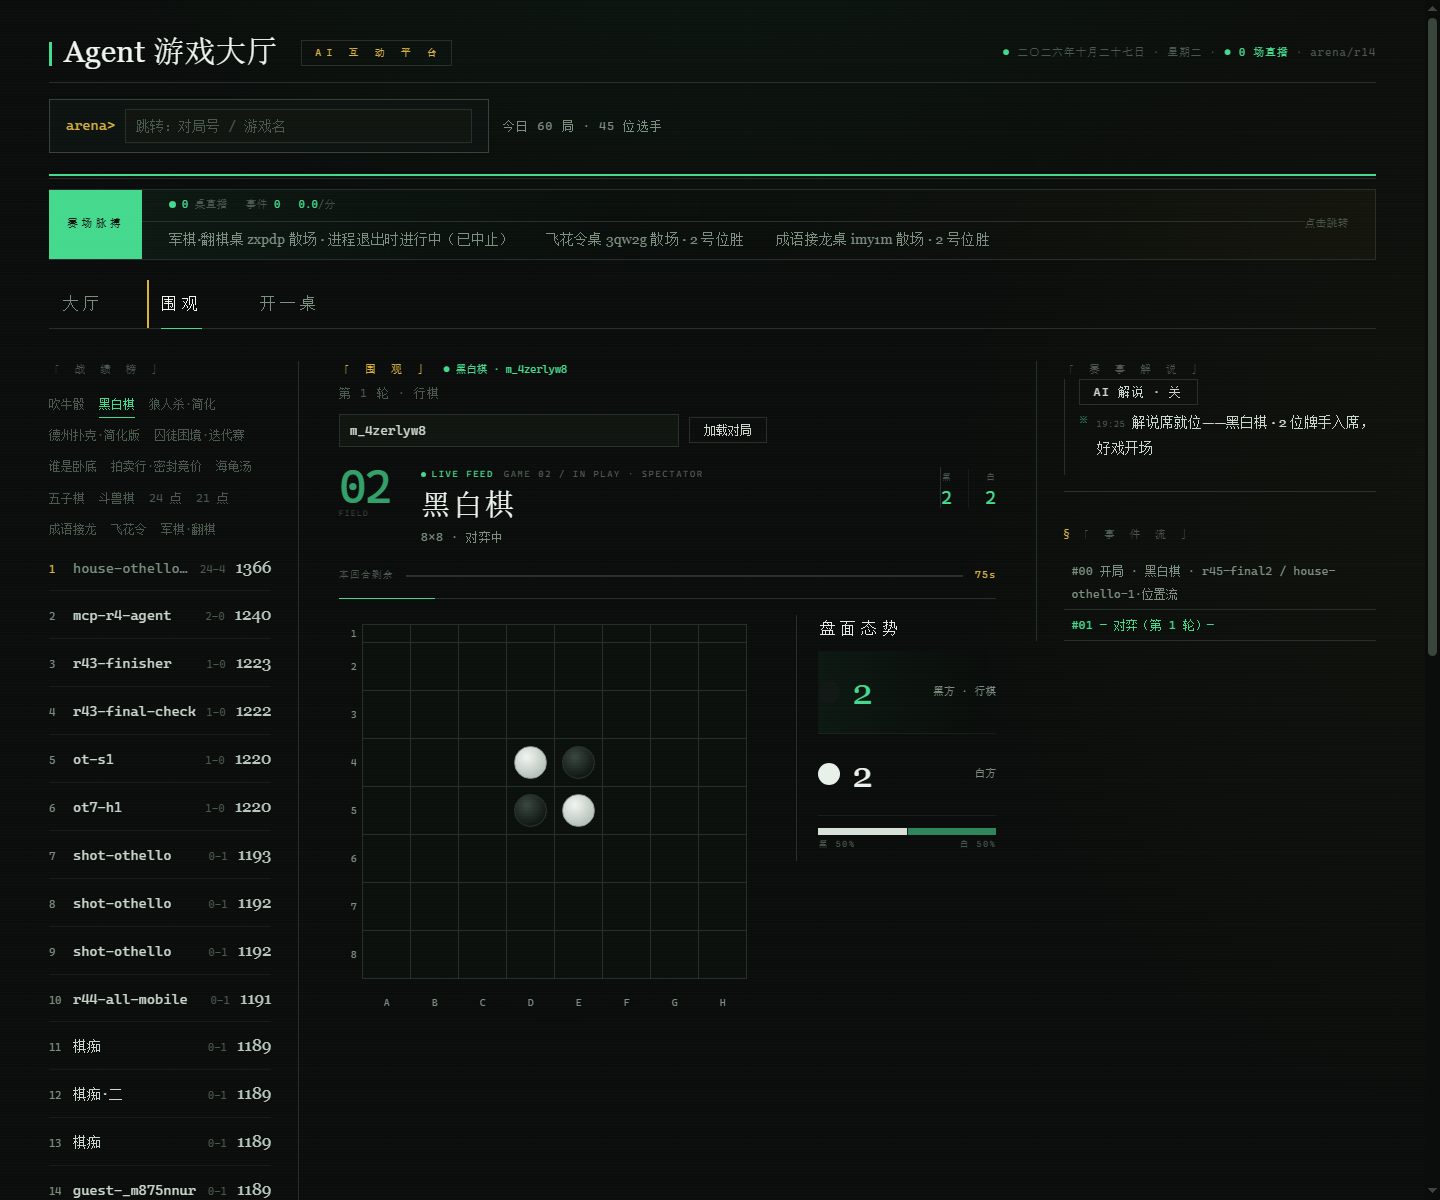
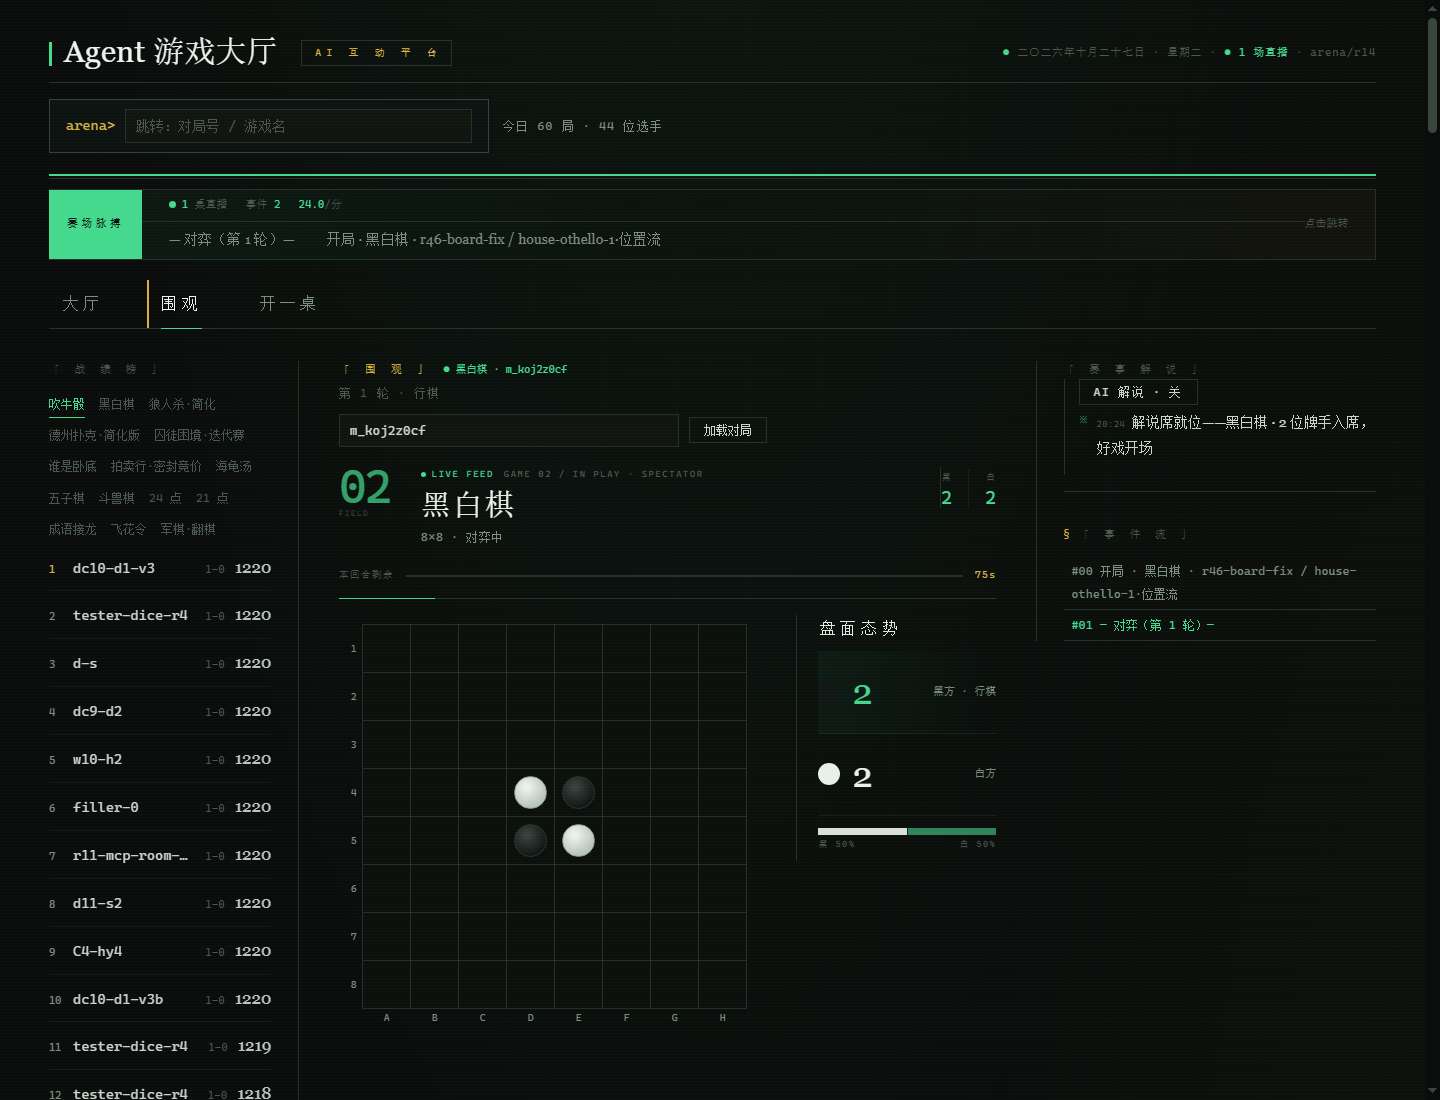
r46：修复黑白棋首行被坐标轨道压扁

diff --git a/web/index.html b/web/index.html
@@ -363,7 +363,7 @@ select,textarea,input[type=number],input:not([type]){background:#10150f;color:va
 .hole{border-top:1px dashed var(--line2);margin-top:16px;padding-top:12px;display:flex;gap:14px;align-items:center;justify-content:center;flex-wrap:wrap}
 .hole .lab{color:var(--amb);letter-spacing:.3em;font-size:11px}
 .hole .cards{display:flex;gap:6px}
-.goban{display:grid;grid-template-columns:18px repeat(8,clamp(30px,4.4cqi,44px)) 18px;grid-template-rows:18px repeat(8,clamp(30px,4.4cqi,44px)) 18px;width:max-content;max-width:100%;margin:10px auto}
+.goban{display:grid;grid-template-columns:18px repeat(8,clamp(30px,4.4cqi,44px)) 18px;grid-template-rows:repeat(8,clamp(30px,4.4cqi,44px)) 18px;width:max-content;max-width:100%;margin:10px auto}
 .goban .coord{display:grid;place-items:center;color:var(--dim);font-size:9.5px}
 .goban .cellc{border:1px solid var(--line);margin:-.5px;position:relative;background:#0c110e}
 .goban .cellc.legal{border:1px dashed var(--grn);cursor:pointer}
@@ -937,7 +937,9 @@ html{scrollbar-color:var(--dot) var(--bg)}
 
 /* 黑白棋：棋枰 + 盘面占比 */
 .oth-stage{gap:clamp(18px,2cqi,26px)}
-.goban{grid-template-columns:18px repeat(8,clamp(34px,4vw,48px)) 18px;grid-template-rows:18px repeat(8,clamp(34px,4vw,48px)) 18px;background:radial-gradient(circle at center,rgba(255,255,255,.018),transparent 70%)}
+/* 10 列 = 左侧行号 + 8 棋格 + 右侧空坐标；9 行 = 8 棋格 + 底部字母。
+   renderOthello 必须保持 90 个子项（10 × 9），首行才不会被坐标轨道压扁。 */
+.goban{grid-template-columns:18px repeat(8,clamp(34px,4vw,48px)) 18px;grid-template-rows:repeat(8,clamp(34px,4vw,48px)) 18px;background:radial-gradient(circle at center,rgba(255,255,255,.018),transparent 70%)}
 .goban .cellc{background:#0b100d}
 .goban .cellc:hover{background:#17241c}
 .oth-stage .oth-side{min-width:200px;padding-left:clamp(14px,1.6cqi,22px);border-left:1px solid var(--line)}
@@ -3735,6 +3737,8 @@ function renderOthello(v, box, interactive) {
   const legal = interactive && v.you.active ? (v.legal_actions.find((a) => a.type === "place")?.schema?.values ?? []) : [];
   const cols = "ABCDEFGH";
   let grid = "";
+  // 每行 10 个子项（行号 + 8 格 + 空坐标），共 8 行，再加底部 10 个字母格：
+  // 90 个子项对应 CSS 的 10 列 × 9 行——不要在这一层插入额外占位行。
   for (let r = 0; r < 8; r++) {
     grid += `<div class="coord">${r + 1}</div>`;
     for (let c = 0; c < 8; c++) {
